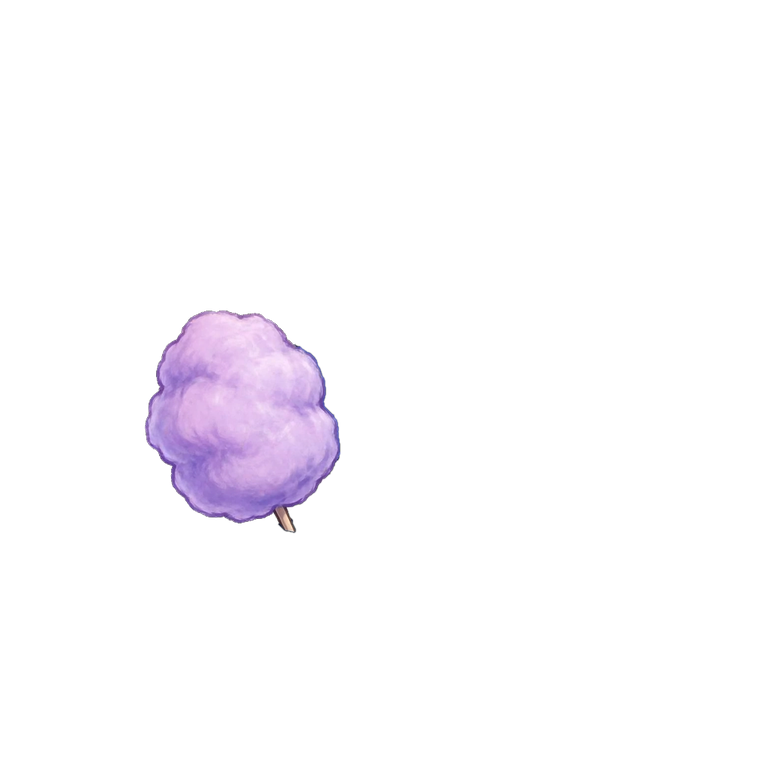
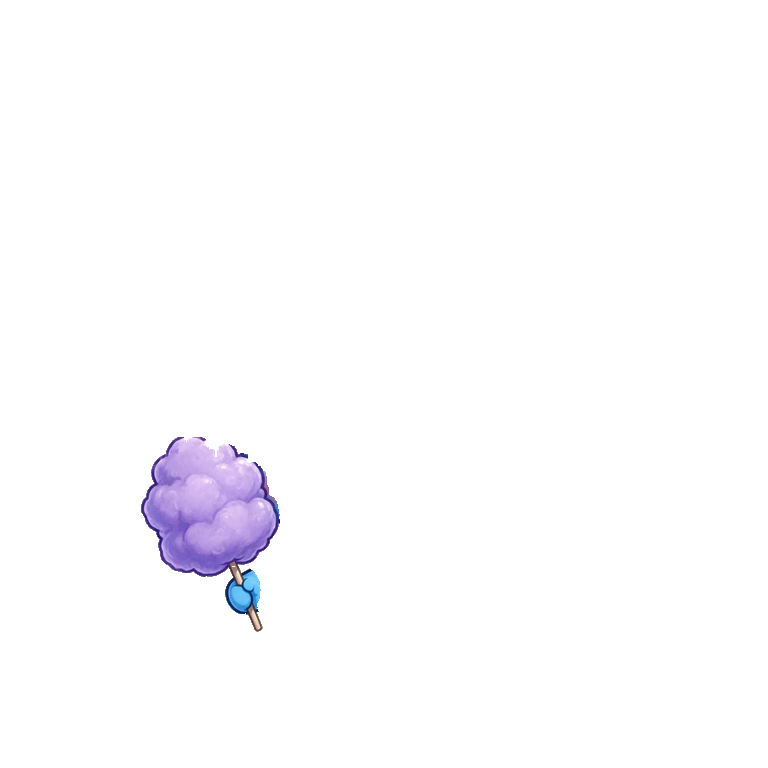
Pi: 2 món cầm tay Muse vẽ riêng (có bàn tay Pi) — trái dừa muahe-nam-pk05, kẹo bông tím halloween-nu-pk09; món vẽ riêng không gọt mẩu xanh / không ẩn tay
npm test 258 đạt.

Claude-Session: https://claude.ai/code/session_0163KSZYdzHDud2uG42gs7mp

Changed region(s): [[0.1875, 0.4062, 0.4688, 0.8438]]

diff --git a/scripts/pi/build.py b/scripts/pi/build.py
@@ -96,7 +96,7 @@ for side in ("trai", "phai"):
 # 24/10 soát từng món: vệt lá cũ sót xa gốc lá (vùng rộng; KHÔNG áp chung vì vòng hoa có lá thật)
 # 24/10 tối (chủ dự án chốt): món Muse vẽ RIÊNG trên nền trong suốt → chỉ đặt đè lên, KHÔNG chạy bộ cắt lá / vụn (cắt nhầm mũ xanh lá)
 STANDALONE = {  # 25/10: món vẽ riêng đã duyệt ghép
-              "giangsinh-nam-dau01", "giangsinh-nam-dau02", "giangsinh-nam-dau03", "giangsinh-nam-dau04", "giangsinh-nam-dau05", "giangsinh-nam-pk03", "giangsinh-nam-pk12", "giangsinh-nu-dau01", "giangsinh-nu-dau02", "giangsinh-nu-dau04", "giangsinh-nu-pk03", "halloween-nam-dau01", "halloween-nam-dau02", "halloween-nam-dau05", "halloween-nam-pk04", "halloween-nu-dau01", "muadong-nam-dau01", "muadong-nam-dau02", "muadong-nam-dau03", "muadong-nam-dau05", "muadong-nam-pk01", "muadong-nam-pk02", "muadong-nam-pk11", "muadong-nu-dau01", "muadong-nu-dau03", "muadong-nu-dau04", "muadong-nu-pk01", "muadong-nu-pk02", "muahe-nam-dau01", "muahe-nam-dau02", "muahe-nam-dau03", "muahe-nam-dau04", "muahe-nam-pk12", "muahe-nu-dau01", "muahe-nu-dau02", "muahe-nu-dau04", "tet-nam-dau01", "tet-nam-dau02", "tet-nam-dau03", "tet-nam-dau04", "tet-nam-pk03", "tet-nam-pk11", "tet-nu-dau01", "tet-nu-dau02", "tet-nu-dau03", "tet-nu-dau05", "tet-nu-pk04", "tet-nu-pk11", "trungthu-nam-dau01", "trungthu-nam-dau02", "trungthu-nam-dau03", "trungthu-nam-dau04", "trungthu-nam-dau05", "trungthu-nam-pk09", "trungthu-nam-pk10", "trungthu-nam-pk11", "trungthu-nu-dau02", "trungthu-nu-dau05", "trungthu-nu-pk10", "giangsinh-nam-giay01", "muahe-nu-giay02", "giangsinh-nam-giay02", "giangsinh-nam-giay03", "giangsinh-nu-giay01", "giangsinh-nu-giay02", "giangsinh-nu-giay03", "halloween-nam-giay02", "halloween-nam-giay03", "halloween-nu-giay01", "halloween-nu-giay03", "muadong-nam-giay01", "muadong-nam-giay02", "muadong-nam-giay03", "muadong-nu-giay01", "muadong-nu-giay03", "muahe-nam-giay01", "muahe-nam-giay02", "muahe-nu-giay01", "muahe-nu-giay03", "tet-nam-giay01", "tet-nam-giay03", "tet-nu-giay01", "tet-nu-giay02", "tet-nu-giay03", "trungthu-nam-giay01", "trungthu-nam-giay02", "trungthu-nam-giay03", "trungthu-nu-giay01", "trungthu-nu-giay02", "trungthu-nu-giay03", "muahe-nam-giay03", "halloween-nam-giay01", "tet-nam-giay02", "halloween-nu-giay02", "muadong-nu-giay02"}
+              "giangsinh-nam-dau01", "giangsinh-nam-dau02", "giangsinh-nam-dau03", "giangsinh-nam-dau04", "giangsinh-nam-dau05", "giangsinh-nam-pk03", "giangsinh-nam-pk12", "giangsinh-nu-dau01", "giangsinh-nu-dau02", "giangsinh-nu-dau04", "giangsinh-nu-pk03", "halloween-nam-dau01", "halloween-nam-dau02", "halloween-nam-dau05", "halloween-nam-pk04", "halloween-nu-dau01", "muadong-nam-dau01", "muadong-nam-dau02", "muadong-nam-dau03", "muadong-nam-dau05", "muadong-nam-pk01", "muadong-nam-pk02", "muadong-nam-pk11", "muadong-nu-dau01", "muadong-nu-dau03", "muadong-nu-dau04", "muadong-nu-pk01", "muadong-nu-pk02", "muahe-nam-dau01", "muahe-nam-dau02", "muahe-nam-dau03", "muahe-nam-dau04", "muahe-nam-pk12", "muahe-nu-dau01", "muahe-nu-dau02", "muahe-nu-dau04", "tet-nam-dau01", "tet-nam-dau02", "tet-nam-dau03", "tet-nam-dau04", "tet-nam-pk03", "tet-nam-pk11", "tet-nu-dau01", "tet-nu-dau02", "tet-nu-dau03", "tet-nu-dau05", "tet-nu-pk04", "tet-nu-pk11", "trungthu-nam-dau01", "trungthu-nam-dau02", "trungthu-nam-dau03", "trungthu-nam-dau04", "trungthu-nam-dau05", "trungthu-nam-pk09", "trungthu-nam-pk10", "trungthu-nam-pk11", "trungthu-nu-dau02", "trungthu-nu-dau05", "trungthu-nu-pk10", "giangsinh-nam-giay01", "muahe-nu-giay02", "giangsinh-nam-giay02", "giangsinh-nam-giay03", "giangsinh-nu-giay01", "giangsinh-nu-giay02", "giangsinh-nu-giay03", "halloween-nam-giay02", "halloween-nam-giay03", "halloween-nu-giay01", "halloween-nu-giay03", "muadong-nam-giay01", "muadong-nam-giay02", "muadong-nam-giay03", "muadong-nu-giay01", "muadong-nu-giay03", "muahe-nam-giay01", "muahe-nam-giay02", "muahe-nu-giay01", "muahe-nu-giay03", "tet-nam-giay01", "tet-nam-giay03", "tet-nu-giay01", "tet-nu-giay02", "tet-nu-giay03", "trungthu-nam-giay01", "trungthu-nam-giay02", "trungthu-nam-giay03", "trungthu-nu-giay01", "trungthu-nu-giay02", "trungthu-nu-giay03", "muahe-nam-giay03", "halloween-nam-giay01", "tet-nam-giay02", "halloween-nu-giay02", "muadong-nu-giay02", "muahe-nam-pk05", "halloween-nu-pk09"}
 SHOE_SCALE = {}  # 25/10: guốc tet-nu-giay02 vẽ lại đúng cỡ
 LEAF_WIDE = {"giangsinh-nam-dau05", "trungthu-nam-dau03", "muahe-nam-dau05", "trungthu-nu-dau02"}
 ARM_HIDE = {"giangsinh-nam-pk07": "trai", "muadong-nam-pk08": "trai", "muadong-nu-pk08": "trai", "muahe-nam-pk05": "trai",
@@ -126,10 +126,10 @@ for it in cat["items"]:
         it = {**it, "slot": "tui", **({"name": TUI[iid]} if TUI[iid] else {})}
     total += put(it["file"], src=s)
     im = Image.open(s).convert("RGBA")
-    if it["slot"] in ("tay", "gang") or iid in CLEAN_STRAY_EXTRA:
+    if (it["slot"] in ("tay", "gang") and iid not in STANDALONE) or iid in CLEAN_STRAY_EXTRA:  # 25/10: món cầm tay vẽ riêng (có bàn tay Pi) → không gọt
         a_, n_ = clean_tay(np.asarray(im), (body[..., 3] > 128) if iid not in CLEAN_STRAY_EXTRA else (body[..., 3] > -1))
         if n_ >= 40: im = Image.fromarray(a_); total += put(it["file"], im=im, q=90)
-    if it["slot"] in ("tay", "gang"):  # 24/10 soát từng món: mẩu da xanh rời nằm dưới tầm tay (chổi halloween-nam-pk07 lòi mẩu cạnh chân)
+    if it["slot"] in ("tay", "gang") and iid not in STANDALONE:  # 24/10 soát từng món: mẩu da xanh rời nằm dưới tầm tay (chổi halloween-nam-pk07 lòi mẩu cạnh chân)
         _a = np.asarray(im).copy(); _n, _lab, _st, _ = cv2.connectedComponentsWithStats((_a[..., 3] > 60).astype(np.uint8), 8)
         _big = _st[1:, 4].max() if _n > 1 else 0; _rm = np.zeros(_a.shape[:2], bool)
         for _k in range(1, _n):
@@ -180,7 +180,7 @@ for it in cat["items"]:
         if _tf: row["tf0"] = _tf
     if it["slot"] in ("tay", "gang"):
         # 23/10: TẮT ẩn tay gốc — soát mắt 25 món của bộ sạch: món tay vẽ khớp tay gốc, ẩn đi chỉ lộ lỗ / mất tay. Giữ hàm để dùng lại nếu bộ sau vẽ tay giơ lên thật.
-        side = ARM_HIDE.get(iid) or (raised_arm(np.asarray(im)) if os.environ.get("PI_HIDE_ARM") else None)
+        side = None if iid in STANDALONE else ARM_HIDE.get(iid) or (raised_arm(np.asarray(im)) if os.environ.get("PI_HIDE_ARM") else None)
         if side:
             row["arm"] = side
             _a, _n = fill_gap(np.asarray(im), ARMLESS[side], side)  # lấp khe hở giữa tay của món và vai thân cụt tay
